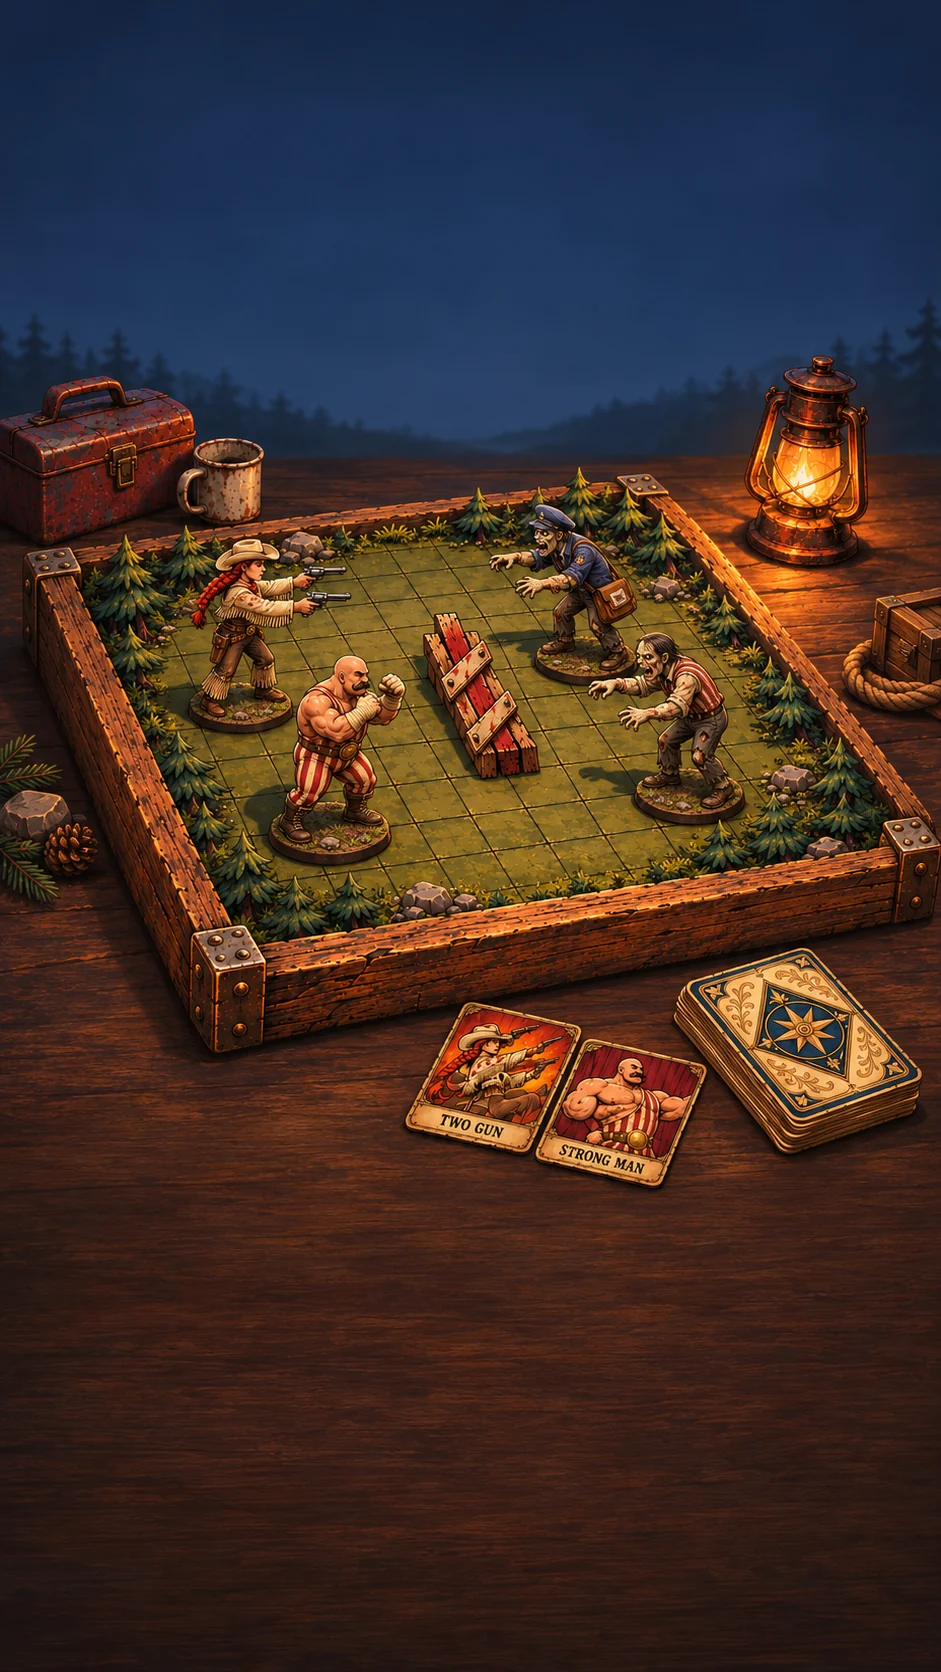
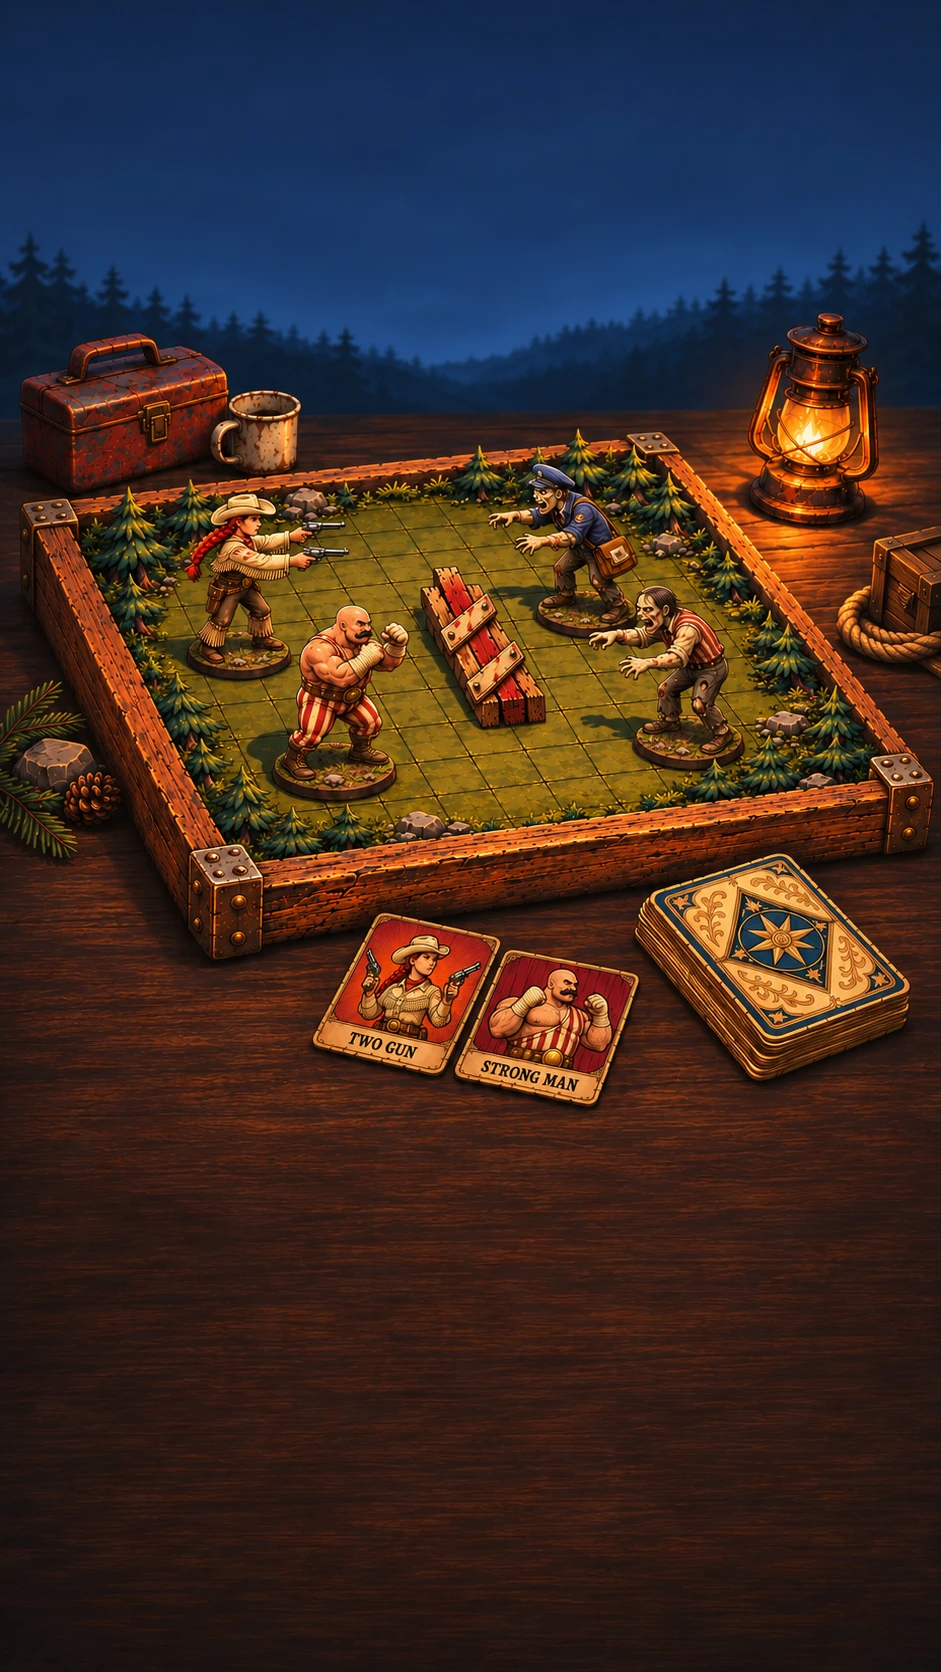
v259 : nouvelle illustration de l'accueil (PC et téléphone), accueil immobile (plus de parallaxe, lueurs, entrée animée ni bouton qui respire)
Claude-Session: https://claude.ai/code/session_01T2JmgKyKwHc1ZdmdhCc8hi

diff --git a/index.html b/index.html
@@ -14,7 +14,7 @@
 <meta name="apple-mobile-web-app-status-bar-style" content="black-translucent">
 <meta name="apple-mobile-web-app-title" content="Barricard">
 <link rel="preload" as="image" href="assets/boot/logo.webp">
-<link rel="stylesheet" href="src/style.css?v=258">
+<link rel="stylesheet" href="src/style.css?v=259">
 <style>
 /* v254 : écran de chargement (src/game-load.js) : fond et logo de l'accueil (versions allégées, assets/boot/), barre dans le panneau noir, astuces écrites sur le fond. Ici pour être stylé avant style.css ; visible seulement après 0,4 s */
 #boot{position:fixed;inset:0;z-index:10000;display:flex;flex-direction:column;align-items:center;justify-content:space-between;background:#0b0a09 url(assets/boot/fond-portrait.webp) center/cover;opacity:0;animation:bootIn .3s ease-out .4s forwards;transition:opacity .35s}
@@ -75,23 +75,23 @@
 </div>
 <div class="overlay" id="ov"><div class="panel" id="panel"></div></div>
 
-<script src="src/i18n.js?v=258"></script>
-<script src="src/lang-en.js?v=258"></script>
-<script src="src/engine.js?v=258"></script>
-<script src="src/audio.js?v=258"></script>
-<script src="src/art-liste.js?v=258"></script>
-<script src="src/game.js?v=258"></script>
-<script src="src/game-draw.js?v=258"></script>
-<script src="src/game-ui.js?v=258"></script>
-<script src="src/game-screens.js?v=258"></script>
-<script src="src/game-menu.js?v=258"></script>
-<script src="src/game-anim.js?v=258"></script>
-<script src="src/game-fiche.js?v=258"></script>
-<script src="src/game-fx2.js?v=258"></script>
-<script src="src/game-artx.js?v=258"></script>
-<script src="src/game-coll.js?v=258"></script>
-<script src="src/game-fx3.js?v=258"></script>
-<script src="src/game-fx5.js?v=258"></script>
-<script src="src/game-load.js?v=258"></script>
+<script src="src/i18n.js?v=259"></script>
+<script src="src/lang-en.js?v=259"></script>
+<script src="src/engine.js?v=259"></script>
+<script src="src/audio.js?v=259"></script>
+<script src="src/art-liste.js?v=259"></script>
+<script src="src/game.js?v=259"></script>
+<script src="src/game-draw.js?v=259"></script>
+<script src="src/game-ui.js?v=259"></script>
+<script src="src/game-screens.js?v=259"></script>
+<script src="src/game-menu.js?v=259"></script>
+<script src="src/game-anim.js?v=259"></script>
+<script src="src/game-fiche.js?v=259"></script>
+<script src="src/game-fx2.js?v=259"></script>
+<script src="src/game-artx.js?v=259"></script>
+<script src="src/game-coll.js?v=259"></script>
+<script src="src/game-fx3.js?v=259"></script>
+<script src="src/game-fx5.js?v=259"></script>
+<script src="src/game-load.js?v=259"></script>
 </body>
 </html>

diff --git a/src/game-artx.js b/src/game-artx.js
@@ -244,7 +244,7 @@ const AXG2 = {
     ],
   },
 };
-// l'accueil et les menus ouverts depuis l'accueil (v246) ont ce décor : les lueurs vont dans le calque #axbg (qui suit la souris sur PC)
+// l'accueil et les menus ouverts depuis l'accueil (v246) ont ce décor, dans le calque #axbg (immobile depuis la v259)
 const axNewHome = () => AX.on() && !!$('#ov.home');
 function axGlow() {
   try {
@@ -283,6 +283,11 @@ function axGlow() {
       ov.insertBefore(bg, ov.firstChild);
     }
     const host = nw ? bg : ov;
+    // v259 : l'accueil reste immobile (demande d'Amine) : plus de lueurs animées sur son décor
+    if (nw) {
+      if (g) g.remove();
+      return;
+    }
     if (!g || g.dataset.k !== k || g.parentNode !== host) {
       if (g) g.remove();
       g = document.createElement('div');
@@ -1468,24 +1473,6 @@ ACT.credits = () => {
       if (home && AX.on() !== !!panel.querySelector('.axh-col')) title();
     } catch (e) {}
   };
-}
-// PC : le décor suit très légèrement la souris (effet de profondeur), coupé en Mode économie
-{
-  let axPx = 0,
-    axPy = 0,
-    axRaf = 0;
-  addEventListener('mousemove', e => {
-    if (!DE.classList.contains('artx') || DE.classList.contains('eco') || !matchMedia('(hover:hover)').matches) return;
-    axPx = (e.clientX / innerWidth) * 2 - 1;
-    axPy = (e.clientY / innerHeight) * 2 - 1;
-    if (axRaf) return;
-    axRaf = requestAnimationFrame(() => {
-      axRaf = 0;
-      const bg = $('#ov.axh #axbg');
-      if (bg)
-        bg.style.transform = `translate3d(${(-axPx * 10).toFixed(1)}px,${(-axPy * 6).toFixed(1)}px,0) scale(1.04)`;
-    });
-  });
 }
 // v246 : le premier accueil est dessiné (game-menu.js) avant que ce fichier soit chargé : on le refait avec la mise en page artiste
 try {

diff --git a/sw.js b/sw.js
@@ -2,7 +2,7 @@
    - Code (page, scripts, styles) : réseau d'abord, copie gardée pour jouer hors ligne. Les mises à jour arrivent donc tout de suite.
    - Images, sons, polices : copie locale d'abord (chargement instantané), rafraîchie en arrière-plan.
    - version.txt : toujours le réseau (vérification de mise à jour). */
-const CACHE = 'abri-2'; // v246 : style artiste officiel (anciennes images retirées)
+const CACHE = 'abri-3'; // v259 : nouvelles images d'accueil (même nom de fichier)
 const CORE = [
   './',
   'index.html',

diff --git a/src/game.js b/src/game.js
@@ -523,7 +523,7 @@ const art = t => {
 };
 const cc = t => `var(--k-${Z.U[t].cat})`;
 // à changer à chaque mise en ligne : permet de vérifier sur le téléphone qu'on a la dernière version
-const VERSION = 'v258 · 8 nov.';
+const VERSION = 'v259 · 8 nov.';
 // Police des chiffres et étiquettes dessinés sur la carte (même que les boutons : Oswald)
 const FONT_CHIFFRE = '"Oswald", "Arial Narrow", sans-serif';
 /* démo publique (v153) : DEMO_BUILD passe à true seulement dans la copie envoyée sur la page itch.io de la démo

diff --git a/src/style.css b/src/style.css
@@ -15208,3 +15208,16 @@ html.artx .cpts.ferr b {
   color: #f3e6c4;
   text-shadow: 0 2px 0 #000;
 }
+
+/* v259 : accueil immobile (demande d'Amine) : décor fixe, ni entrée animée ni bouton « Jouer » qui respire */
+html.artx #ov.home #axbg {
+  transform: none !important;
+  transition: none;
+}
+html.artx #ov.axh #panel .axh-play,
+html.artx #ov.axh #panel .axh-play::after,
+html.artx .axh-in .logo img,
+html.artx .axh-in .axh-menu > *,
+html.artx .axh-bar.axh-in {
+  animation: none !important;
+}

diff --git a/docs/CARTE_CODE.md b/docs/CARTE_CODE.md
@@ -18,7 +18,7 @@ Guide écrit à la main : `docs/CODE.md`. Les numéros de ligne permettent `sed 
 11. `src/game-anim.js` (1181 lignes)
 12. `src/game-fiche.js` (695 lignes)
 13. `src/game-fx2.js` (364 lignes)
-14. `src/game-artx.js` (1494 lignes)
+14. `src/game-artx.js` (1481 lignes)
 15. `src/game-coll.js` (664 lignes)
 16. `src/game-fx3.js` (556 lignes)
 17. `src/game-fx5.js` (768 lignes)
@@ -31,40 +31,40 @@ Pour modifier ou déboguer une de ces fonctions, **regarder toute la chaîne**, 
 
 | Fonction | Définie dans | Enveloppée ensuite par (ordre de chargement) |
 |---|---|---|
-| `render` | game-ui.js:601 | game-fx2.js:261, game-artx.js:82, game-artx.js:158, game-artx.js:377, game-artx.js:484, game-artx.js:935, game-artx.js:998 |
-| `applyArt` | game.js:329 | game-artx.js:65, game-artx.js:368, game-artx.js:942, game-artx.js:1386, game-artx.js:1464 |
-| `frameInner` | game-draw.js:5426 | game-artx.js:677, game-fx3.js:85, game-fx3.js:501, game-fx5.js:155 |
+| `render` | game-ui.js:601 | game-fx2.js:261, game-artx.js:82, game-artx.js:158, game-artx.js:382, game-artx.js:489, game-artx.js:940, game-artx.js:1003 |
+| `applyArt` | game.js:329 | game-artx.js:65, game-artx.js:373, game-artx.js:947, game-artx.js:1391, game-artx.js:1469 |
+| `frameInner` | game-draw.js:5426 | game-artx.js:682, game-fx3.js:85, game-fx3.js:501, game-fx5.js:155 |
 | `playEvents` | game-ui.js:4 | game-anim.js:913, game-fx2.js:329, game-fx3.js:94, game-fx5.js:106 |
-| `buildGround` | game-draw.js:1303 | game-artx.js:26, game-artx.js:689 |
+| `buildGround` | game-draw.js:1303 | game-artx.js:26, game-artx.js:694 |
 | `collectionScreen` | game-screens.js:930 | game-anim.js:397, game-coll.js:644 |
 | `deckEditor` | game-screens.js:898 | game-anim.js:405, game-coll.js:654 |
-| `feltLayout` | game-ui.js:1857 | game-artx.js:923, game-artx.js:1066 |
-| `syncZ` | game-draw.js:2249 | game-fx2.js:201, game-artx.js:1108 |
+| `feltLayout` | game-ui.js:1857 | game-artx.js:928, game-artx.js:1071 |
+| `syncZ` | game-draw.js:2249 | game-fx2.js:201, game-artx.js:1113 |
 | `unitAnim` | game-draw.js:2927 | game-fx3.js:348, game-fx5.js:476 |
 | `countUp` | game-screens.js:639 | game-anim.js:1117 |
 | `dawnStep` | game-screens.js:35 | game-anim.js:298 |
 | `drawFloats` | game-draw.js:4890 | game-fx5.js:760 |
-| `drawFog` | game-draw.js:5153 | game-artx.js:551 |
+| `drawFog` | game-draw.js:5153 | game-artx.js:556 |
 | `drawFX` | game-draw.js:4796 | game-fx5.js:650 |
 | `drawPlace` | game-draw.js:5314 | game-fx3.js:336 |
 | `drawShelter` | game-draw.js:4493 | game-fx5.js:520 |
-| `drawSky` | game-draw.js:4962 | game-artx.js:670 |
+| `drawSky` | game-draw.js:4962 | game-artx.js:675 |
 | `giftScreen` | game-screens.js:309 | game-anim.js:724 |
-| `hglowFit` | game-menu.js:801 | game-artx.js:326 |
+| `hglowFit` | game-menu.js:801 | game-artx.js:331 |
 | `keepEnd` | game-menu.js:560 | game-fiche.js:206 |
 | `lights` | game-draw.js:5073 | game-fx3.js:399 |
 | `mergeFx` | game-ui.js:1444 | game-anim.js:807 |
 | `nightBanner` | game-menu.js:227 | game-fx2.js:286 |
-| `optionsScreen` | game-screens.js:515 | game-artx.js:1448 |
-| `pilesHtml` | game.js:1425 | game-artx.js:979 |
+| `optionsScreen` | game-screens.js:515 | game-artx.js:1453 |
+| `pilesHtml` | game.js:1425 | game-artx.js:984 |
 | `placeHints` | game-draw.js:5926 | game-fx2.js:246 |
 | `resumeWave` | game-ui.js:1726 | game-anim.js:903 |
-| `ringFog` | game-draw.js:2096 | game-artx.js:538 |
+| `ringFog` | game-draw.js:2096 | game-artx.js:543 |
 | `shelHit` | game-ui.js:582 | game-fx2.js:354 |
 | `show` | game-screens.js:601 | game-anim.js:1158 |
 | `showAch` | game.js:775 | game-anim.js:1108 |
 | `tapCell` | game-ui.js:1578 | game-ui.js:2007 |
-| `title` | game-menu.js:430 | game-artx.js:335 |
+| `title` | game-menu.js:430 | game-artx.js:340 |
 | `zoomCf` | game-menu.js:246 | game-anim.js:309 |
 
 ## Actions des boutons
@@ -73,7 +73,7 @@ Un bouton `data-a="nom"` appelle `ACT.nom` (objet `ACT` de `game-screens.js`, li
 
 testmode:1127 · teststart:1134 · tcards:1152 · tadd:1168 · options:1174 · optclose:1175 · presume:1182 · pquit:1187 · prestart:1191 · prestart2:1195 · pmenu:1204 · closeov:1205 · bpick:1209 · artstyle:1217 · new:1224 · prepdeck:1235 · prepch:1240 · preppl:1244 · preprel:1255 · prepmen:1259 · start:1265 · edit:1280 · dkp:1281 · cfam:1289 · crole:1300 · cpg:1311 · cfmore:1315 · atel:1319 · dkdraw:1326 · dkm:1330 · dkreset:1339 · coll:1344 · mdet:1352 · achs:1353 · gift:1354 · gyes:1355 · gno:1356 · gdone:1357 · mback:1358 · evo:1362 · unlock:1363 · load:1377 · title:1382 · close:1383 · rules:1384 · stats:1388 · rgo:1389 · retuto:1393 · deck:1405 · dawn:1413 · lvl:1414 · relic:1426 · evc:1431 · todraft:1450 · draft:1451 · shop:1460 · day:1512 · nightpick:1513 · nightgo:1517 · daily:1521 · wish:1524 · dpick:1534 · peek:1539
 
-Ajoutées ou remplacées ailleurs : unlock (game-anim.js:481) · dkp (game-anim.js:507) · dkm (game-anim.js:541) · prepdeck (game-anim.js:573) · start (game-anim.js:687) · gift (game-anim.js:758) · relic (game-anim.js:1015) · prepmen (game-anim.js:1091) · fshare (game-fiche.js:689) · credits (game-artx.js:1439)
+Ajoutées ou remplacées ailleurs : unlock (game-anim.js:481) · dkp (game-anim.js:507) · dkm (game-anim.js:541) · prepdeck (game-anim.js:573) · start (game-anim.js:687) · gift (game-anim.js:758) · relic (game-anim.js:1015) · prepmen (game-anim.js:1091) · fshare (game-fiche.js:689) · credits (game-artx.js:1444)
 
 ## Fichier par fichier
 
@@ -199,9 +199,9 @@ _t:19 _tPage:41
 
 > v200 : refonte du jeu dans le style artiste (html.artx seulement) : plateau dessiné d'Amin
 
-- **1** (début) : axPalSet:15 axGround:40 axPlat:46 axBig:102 axGlow:249 axGlowHtml:304 axHome:353 axPad:397 axLay:406 axOn:531 axRing:556 axFxDraw:583 axPaint:704
-- **838** v216 : nouvelle disposition du style artiste, d'après les maquettes d'Amine : ax3Want:845 ax3Build:848 ax3Put1:862 ax3Put:881 ax3Back:902 ax3Phase:914 ax3Zoom:1047 axFarDraw:1123 artNames:1372
-- **1392** v245 : accueil du style artiste sur le modèle d'Amine : axPlayHtml:1397 axBigBtn:1402 axTitleHtml:1405
+- **1** (début) : axPalSet:15 axGround:40 axPlat:46 axBig:102 axGlow:249 axGlowHtml:309 axHome:358 axPad:402 axLay:411 axOn:536 axRing:561 axFxDraw:588 axPaint:709
+- **843** v216 : nouvelle disposition du style artiste, d'après les maquettes d'Amine : ax3Want:850 ax3Build:853 ax3Put1:867 ax3Put:886 ax3Back:907 ax3Phase:919 ax3Zoom:1052 axFarDraw:1128 artNames:1377
+- **1397** v245 : accueil du style artiste sur le modèle d'Amine : axPlayHtml:1402 axBigBtn:1407 axTitleHtml:1410
 
 ### src/game-coll.js
 
@@ -229,7 +229,7 @@ preloadImg:11 inCache:24 preloadUi:35 preloadCards:41 bootUrls:52 bootStepLabel:
 
 ## src/style.css
 
-15211 lignes. Les règles s’empilent par version : **à sélecteur égal, la dernière l’emporte**. Le style artiste est sous `html.artx` (1112 lignes). Chercher un sélecteur avec `grep -n` plutôt que par section.
+15224 lignes. Les règles s’empilent par version : **à sélecteur égal, la dernière l’emporte**. Le style artiste est sous `html.artx` (1118 lignes). Chercher un sélecteur avec `grep -n` plutôt que par section.
 
 - 1 polices intégrées au jeu (licence SIL OFL), pour jouer sans internet
 - 2 v252 : Creepster, police d'horreur réservée au bouton « Affronter la nuit »
@@ -508,3 +508,4 @@ preloadImg:11 inCache:24 preloadUi:35 preloadCards:41 bootUrls:52 bootStepLabel:
 - 15117 ===== v258 : énergie en batterie (cellules rouges, chiffre sur un bout de scotch) =====
 - 15136 borne de la batterie
 - 15185 ===== v258 : points de la collection : écrou de ferraille sur le panneau noir =====
+- 15212 v259 : accueil immobile (demande d'Amine) : décor fixe, ni entrée animée ni bouton « Jouer
